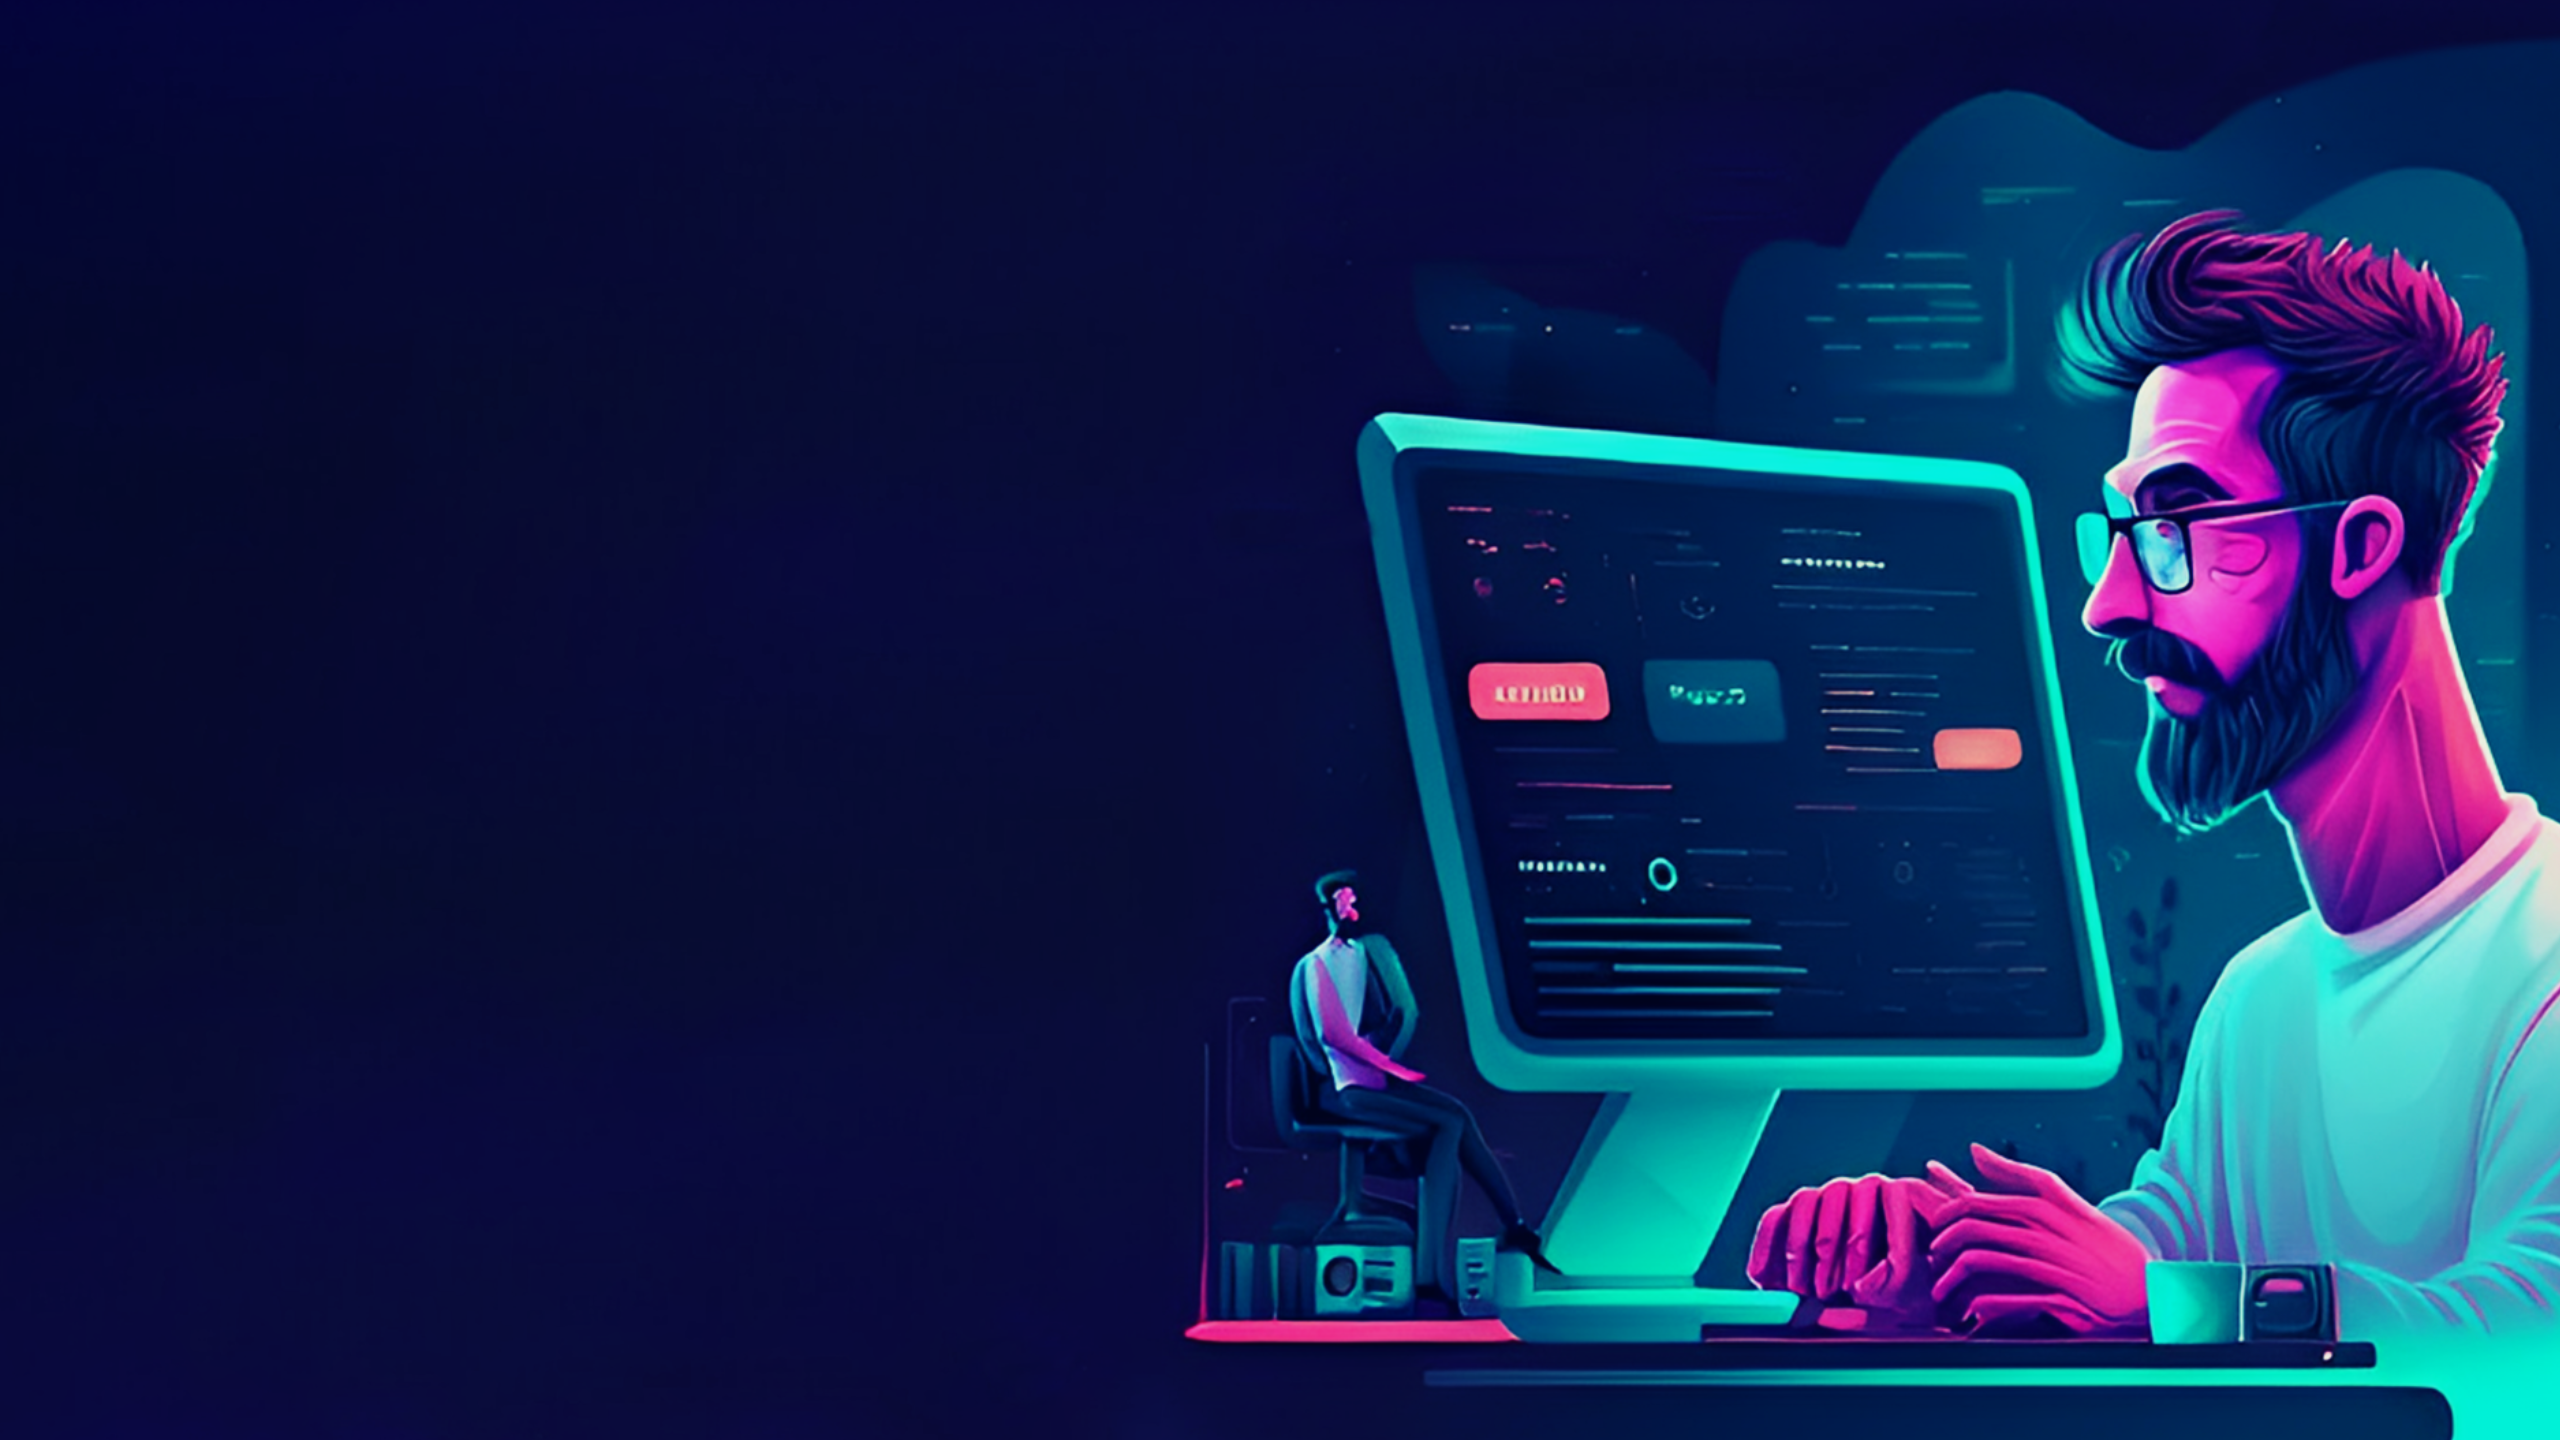
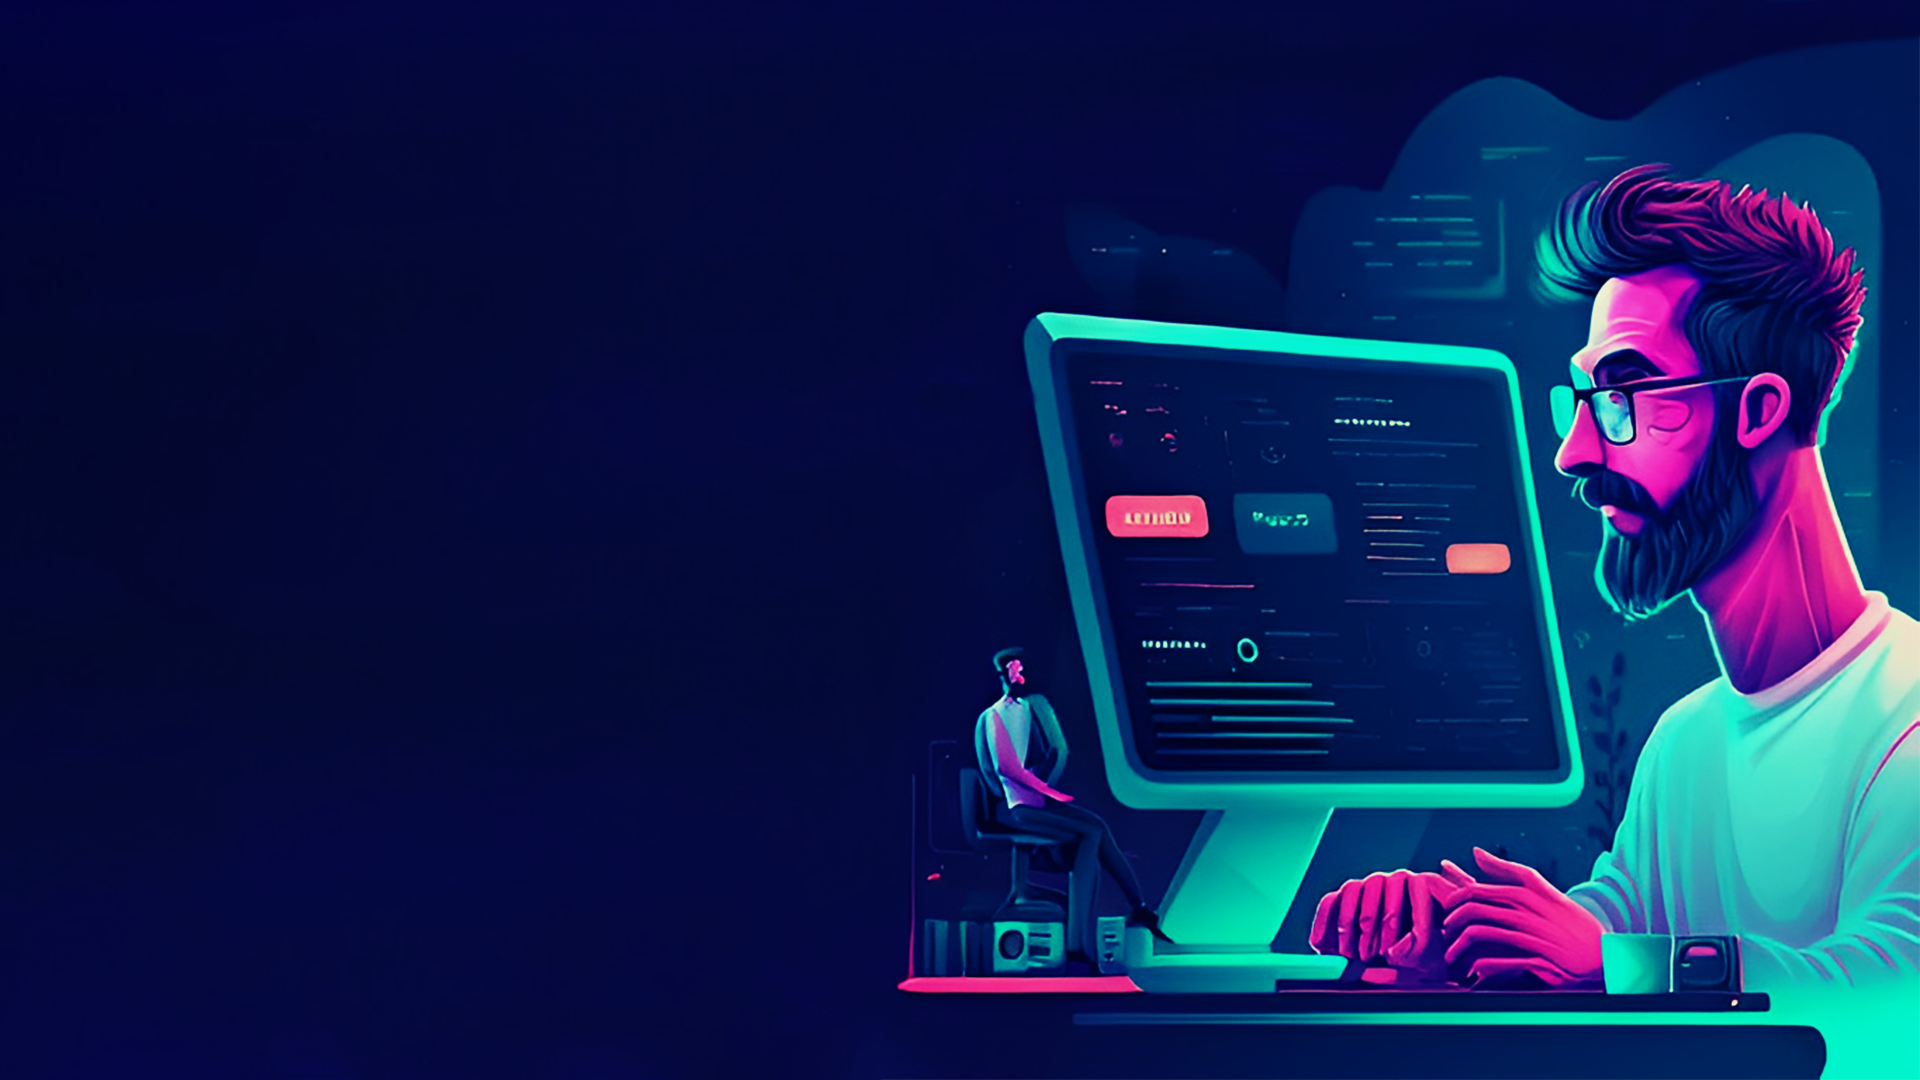
teste

Changed region(s): [[0.4688, 0.0917, 1.0, 1.0], [0.75, 0.0611, 0.8125, 0.0917], [0.6875, 0.3667, 0.75, 0.3972]]

diff --git a/index.html b/index.html
@@ -6,8 +6,6 @@
   <meta http-equiv="X-UA-Compatible" content="IE=edge">
   <meta name="viewport" content="width=device-width, initial-scale=1.0">
   <link rel="icon" href="./assets/images/logoSemNomeFundoAzul.webp">
-  <link href="https://cdn.jsdelivr.net/npm/bootstrap@5.0.2/dist/css/bootstrap.min.css" rel="stylesheet"
-    integrity="sha384-EVSTQN3/azprG1Anm3QDgpJLIm9Nao0Yz1ztcQTwFspd3yD65VohhpuuCOmLASjC" crossorigin="anonymous">
   <link rel="stylesheet" type="text/css" href="./assets//styles/main.css?v=0.1">
   <script src="https://kit.fontawesome.com/d2e94242a3.js" crossorigin="anonymous"></script>
   <title>Matheus Saggiorato Web Developer</title>
@@ -82,14 +80,14 @@
 
     <h1 class="title-about">Olá. <br> Eu sou o Matheus Saggiorato!</h1>
 
-    <p class="about-me">Nasci em Passo fundo, interior do Rio Grande do Sul, em setembro de 2000, e desde
-      jovem, sempre fui muito curioso e estudioso,
-      adorava aprender e saber como tudo funcionava, mas como cresci
-      no interior sem acesso a internet, tinha quase zero conhecimento de tecnologia, até que com 15 anos, me mudei
+    <p class="about-me">Nascido em Passo fundo, interior do Rio Grande do Sul, em setembro de 2000, e desde
+      jovem, sempre fui guiado pela minha curiosidade insaciável e minha paixão por aprender como tudo funcionava.
+      Cresci sem acesso a internet,
+      portanto tinha um conhecimento de tecnologia muito básico, até que com 15 anos, me mudei
       para a cidade para trabalhar em uma grande loja de materiais
       para construção civil. <br><br>
 
-      Pouco tempo depois, fui promovido de menor aprendiz a vendedor, e tendo contato com muitos empreendedores,
+      Fui promovido rapidamente de menor aprendiz a vendedor, e tendo contato com muitos empreendedores,
       comecei a estudar sobre empreendedorismo, vendas, marketing e
       tecnologia, e esse mundo simplesmente me encantou, pois eu vi que isso movia o mundo, e com muito trabalho duro,
       isso um dia me permitiria chegar onde almejo.
@@ -99,17 +97,15 @@
       aplicações altamente escaláveis, para mim e para outros empreendedores, aí não teve jeito, foi amor a primeira
       vista. <br><br>
 
-      Hoje sou programador Web, e estou aqui para ajudar você e seu negócio a consolidar sua presença digital e vender
-      mais. Vamos
-      juntos cumprir esse objetivo?
+      Hoje, sou programador web apaixonado pelo que faço, e estou aqui para ajudar você a transformar seu negócio e
+      levá-lo ao próximo nível. Vamos fazer isso juntos?
     </p>
 
-    <div class="techs-bg glass-effect">
+    <div class="techs-bg">
 
       <h2 class="title-techs">Principais tecnologias e ferramentas:</h2>
 
       <div class="techs-container">
-
 
         <span class="tip-box">
           <i class="fa-brands fa-html5 techs"></i>
@@ -175,21 +171,50 @@
 
   <section id="contato" class="sessions">
 
-    <h1>Deixe sua mensagem que entraremos em contato</h1>
-    <div class="form-container">
-      <form action="contatoenvia" method="post" class="form">
-        <input type="hidden" name="resultado" value="7">
-        <input type="text" name="nome" class="form-control" id="name" placeholder="*Nome" data-msg="Campo Obrigátorio"
-          required="required">
-        <input type="email" class="form-control" name="email" id="email" placeholder="*E-mail" data-rule="email"
-          data-msg="Campo obrigatório com e-mail válido" required="required">
-        <input type="tel" class="form-control" name="fone" attrname="telephone1" id="subject" placeholder="*Telefone"
-          data-rule="minlen:4" data-msg="Campo obrigatório" required="required">
-        <textarea class="form-control" name="mensagem" rows="5" data-rule="required" data-msg="Campo obrigatório"
-          placeholder="*Mensagem" required="required"></textarea>
-        <button class="form-button">Enviar</button>
-      </form>
+    <div>
+
+      <a href="mailto:matheussaggiorato@gmail.com" target="_blank"><h2><i class="fa-solid fa-envelope"></i>Matheussaggiorato@gmail.com</h2></a>
+      <a href="" target="_blank"><h2><i class="fa-solid fa-phone"></i>(54)99974-8017</h2></a>
+      <a><h2><i class="fa-solid fa-location-dot"></i>Passo Fundo - RS</h2></a>
+
     </div>
+  
+    <div class="form-container">
+
+      <h1 class="title-contact">Deixe sua mensagem que entraremos em contato</h1>
+
+        <div class="input-group">
+          <form action="contatoenvia" method="post" class="form" autocomplete="off">
+            <input type="hidden" name="resultado" value="7">
+            <input type="text" name="nome" class="input" id="name" data-msg="Campo Obrigátorio" required="required"
+              autocomplete="off">
+            <label class="user-label">Nome</label>
+          </form>
+        </div>
+
+        <div class="input-group">
+          <input type="email" class="input" name="email" id="email" data-rule="email"
+            data-msg="Campo obrigatório com e-mail válido" required="required" autocomplete="off">
+          <label class="user-label">E-mail</label>
+        </div>
+
+        <div class="input-group">
+          <input type="tel" class="input" name="fone" attrname="telephone1" id="subject" data-rule="minlen:4"
+            data-msg="Campo obrigatório" required="required" autocomplete="off">
+          <label class="user-label">Telefone</label>
+        </div>
+
+        <div class="input-group">
+          <input  type="text" class="input" name="mensagem" data-rule="required" data-msg="Campo obrigatório"
+            required="required" autocomplete="off"></input>
+          <label class="user-label">Mensagem</label>
+        </div>
+
+        <button class="form-button">Enviar</button>
+
+
+    </div>
+
 
   </section>
 
@@ -245,9 +270,6 @@
     <button onclick="BackToTopFunction()" id="backToTop"><i class="fa-solid fa-angles-up"></i></button>
   </div>
 
-  <script src="https://cdn.jsdelivr.net/npm/bootstrap@5.0.2/dist/js/bootstrap.bundle.min.js"
-    integrity="sha384-MrcW6ZMFYlzcLA8Nl+NtUVF0sA7MsXsP1UyJoMp4YLEuNSfAP+JcXn/tWtIaxVXM"
-    crossorigin="anonymous"></script>
   <script src="https://unpkg.com/typeit@8.7.0/dist/index.umd.js"></script>
   <script defer src="./assets/scripts/script.js"></script>
 </body>

diff --git a/assets/styles/contact.css b/assets/styles/contact.css
@@ -1,0 +1,77 @@
+.form-container {
+    width: 50%;
+}
+
+.title-contact {
+    margin-bottom: var(--margin-8);
+    font-size: var(--font-desktop-title);
+    font-weight: 700;
+    letter-spacing: 2px;
+}
+
+.input-group {
+    position: relative;
+}
+
+.input {
+    width: 100%;
+    border: solid 1.5px #9e9e9e;
+    border-radius: 1rem;
+    background: none;
+    padding: 1rem;
+    margin-bottom: 1rem;
+    font-size: 1rem;
+    color: #f5f5f5;
+    transition: border 150ms cubic-bezier(0.4, 0, 0.2, 1);
+}
+
+.user-label {
+    position: absolute;
+    left: 1rem;
+    color: var(--light-theme);
+    pointer-events: none;
+    transform: translateY(1rem);
+    transition: 150ms cubic-bezier(0.4, 0, 0.2, 1);
+}
+
+.input:focus,
+input:valid {
+    outline: none;
+    border: 1.5px solid var(--test-blue);
+}
+
+.input:focus~label,
+input:valid~label {
+    transform: translateY(-50%) scale(0.9);
+    background-color: #212121;
+    padding: 0 .2em;
+    color: #2196f3;
+}
+
+.form-button {
+    width: 100%;
+    padding: 1rem;
+    border: none;
+    border-radius: 1rem;
+    font-size: 1rem;
+    font-weight: bold;
+    cursor: pointer;
+}
+
+.form-button:focus {
+    transform: scale(0.95);
+    -ms-transform: scale(0.95);
+    /* IE 9 */
+    -webkit-transform: scale(0.95);
+    /* Safari 3-8 */
+    box-shadow: 0px 0px 30px rgb(94, 94, 94);
+    -moz-box-shadow: 0px 0px 30px rgb(94, 94, 94);
+    -webkit-box-shadow: 0px 0px 30px rgb(94, 94, 94);
+}
+
+@media screen and (max-width: 750px) {
+
+    .form-container {
+        width: 100%;
+    }
+}

diff --git a/assets/styles/menu.css b/assets/styles/menu.css
@@ -2,23 +2,22 @@ header {
 	display: flex;
 	justify-content: space-between;
 	align-items: center;
-	padding: 0.3rem 3.75rem;
+	padding: .4rem 3.75rem;
 	top: 0;
 	width: 100%;
 	font-size: 0.875rem;
 	position: fixed;
 	z-index: 2000;
-	background: rgb(21, 21, 21) url(../images/bg-universe.png) center right/cover no-repeat fixed;
+	background: transparent;
 }
 
 .logo {
-	height: 40px;
+	height: 50px;
 }
 
-/* .header-on-scroll {
+.header-on-scroll {
 background: var(--test-blue);
-background: rgb(21, 21, 21) url(../images/bg-tech2.png) center right/cover no-repeat fixed;
-} */
+}
 
 #btn-mobile {
 	display: none;
@@ -111,7 +110,7 @@ background: rgb(21, 21, 21) url(../images/bg-tech2.png) center right/cover no-re
 	}
 }
 
-@media screen and (max-width: 700px) {
+@media screen and (max-width: 750px) {
 
 	#menu {
 		position: absolute;

diff --git a/assets/styles/main.css b/assets/styles/main.css
@@ -68,42 +68,6 @@ body {
     color: var(--light-theme);
 }
 
-
-
-
-
-.form-container {
-    width: 40%;
-    margin-top: 20px;
-}
-
-.form-control {
-    width: 80%;
-    padding: 10px;
-    border: none;
-    border-radius: 10px;
-    display: flex;
-    justify-content: center;
-    margin: 10px 0px;
-}
-
-.form-button {
-    width: 100%;
-    padding: 10px;
-    border: none;
-    border-radius: 10px;
-    font-size: 16px;
-    font-weight: bold;
-    cursor: pointer;
-}
-
-.form-button:focus {
-    -ms-transform: scale(0.9);
-    /* IE 9 */
-    -webkit-transform: scale(0.9);
-    /* Safari 3-8 */
-    transform: scale(0.9);
-    box-shadow: 0px 0px 30px rgb(94, 94, 94);
-    -moz-box-shadow: 0px 0px 30px rgb(94, 94, 94);
-    -webkit-box-shadow: 0px 0px 30px rgb(94, 94, 94);
+.sessions {
+    padding: 4rem 2rem;
 }

diff --git a/assets/styles/about.css b/assets/styles/about.css
@@ -17,15 +17,12 @@
 }
 
 .custom-shape-divider-bottom-1672724897 .shape-fill {
-    fill: var(--dark-blue);
-}
-
-.sessions {
-    padding: 4rem 2rem;
+    fill: var(--light-theme);
 }
 
 #sobre {
-    background: var(--dark-blue);
+    background: var(--light-theme);
+    color: var(--dark-blue);
 }
 
 .image-container {
@@ -80,6 +77,7 @@
     font-size: var(--font-desktop-title);
     font-weight: 700;
     letter-spacing: 2px;
+    color: var(--light-theme);
 }
 
 .techs-bg {
@@ -91,7 +89,8 @@
     flex-direction: column;
     text-align: center;
     padding: 1rem;
-    border-radius: 20px;
+    border-radius: 1rem;
+    background-color: var(--test-blue);
 }
 
 .techs-container {

diff --git a/assets/scripts/script.js b/assets/scripts/script.js
@@ -57,11 +57,11 @@ window.onscroll = function () {
   if (document.body.scrollTop > 100 || document.documentElement.scrollTop > 100) {
     btnBackToTop.classList.add('back-to-top-active')
     btnBackToTop.classList.remove('back-to-top-inactive');
-    /* header.classList.add('header-on-scroll'); */
+    header.classList.add('header-on-scroll');
   } else {
     btnBackToTop.classList.add('back-to-top-inactive')
     btnBackToTop.classList.remove('back-to-top-active');
-    /* header.classList.remove('header-on-scroll'); */
+    header.classList.remove('header-on-scroll');
   }
 
 }

diff --git a/assets/styles/top-container.css b/assets/styles/top-container.css
@@ -1,7 +1,7 @@
 .top-container {
 	min-height: 110vh;
 	height: auto;
-	background: var(--test-blue) url(../images/bg-tech.png) center right/cover no-repeat fixed;
+	background: var(--test-blue) url(../images/bg-tech.png) bottom right/cover no-repeat fixed;
 	margin: 0;
 	padding: 4rem 20rem 4rem 2rem;
 	position: relative;
@@ -9,7 +9,7 @@
 
 .title-top {
 	font-size: var(--font-desktop-title);
-	margin-top: var(--margin-8);
+	margin-top: 8rem;
 	font-weight: 700;
 	letter-spacing: 2px;
 }

diff --git a/assets/styles/footer.css b/assets/styles/footer.css
@@ -7,7 +7,7 @@
 	flex-direction: column;
 	align-items: center;
 	gap: 20px;
-	background: rgb(21, 21, 21) url(../images/bg-universe.png) center center/cover no-repeat fixed;
+	background: var(--dark-blue);
 
 }
 
